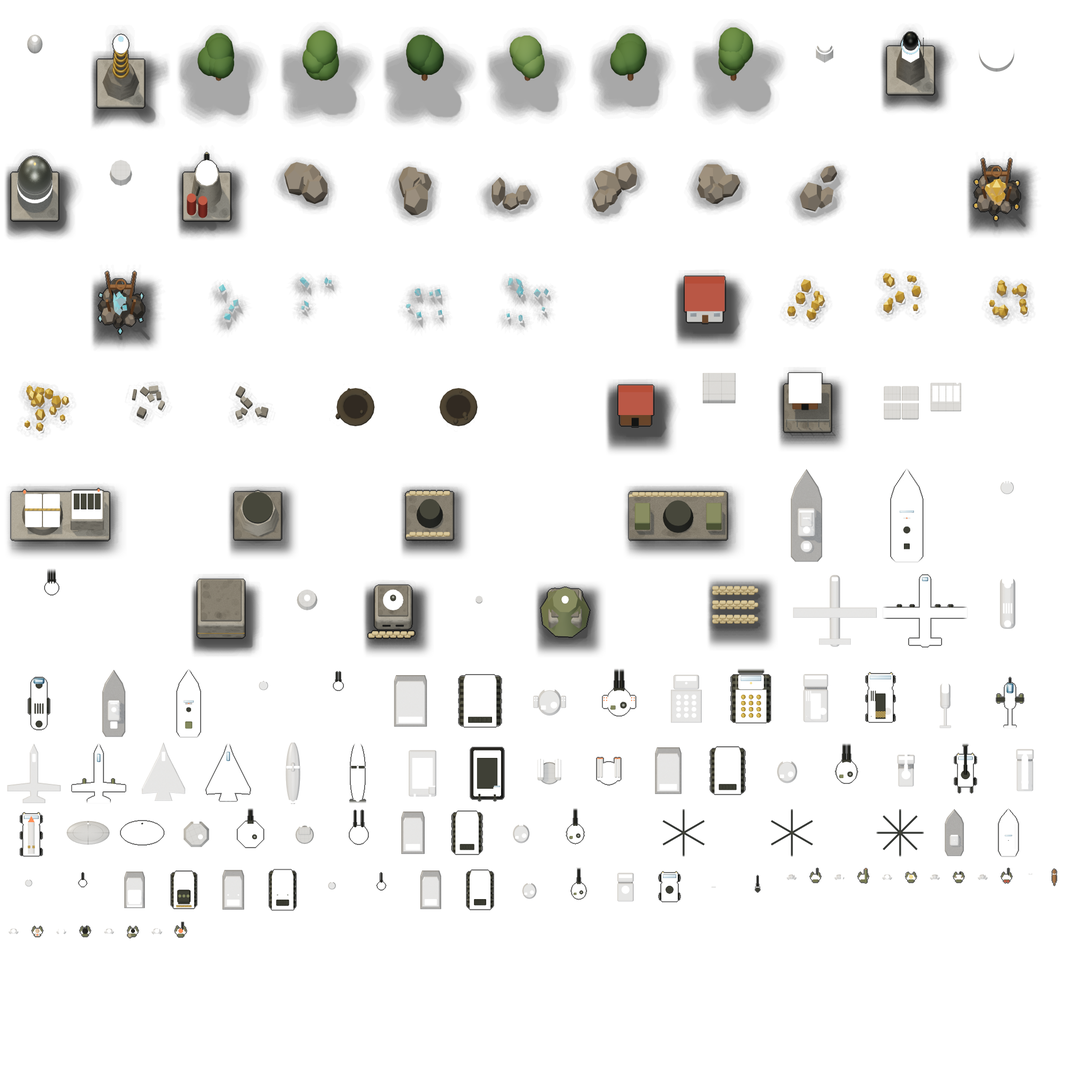
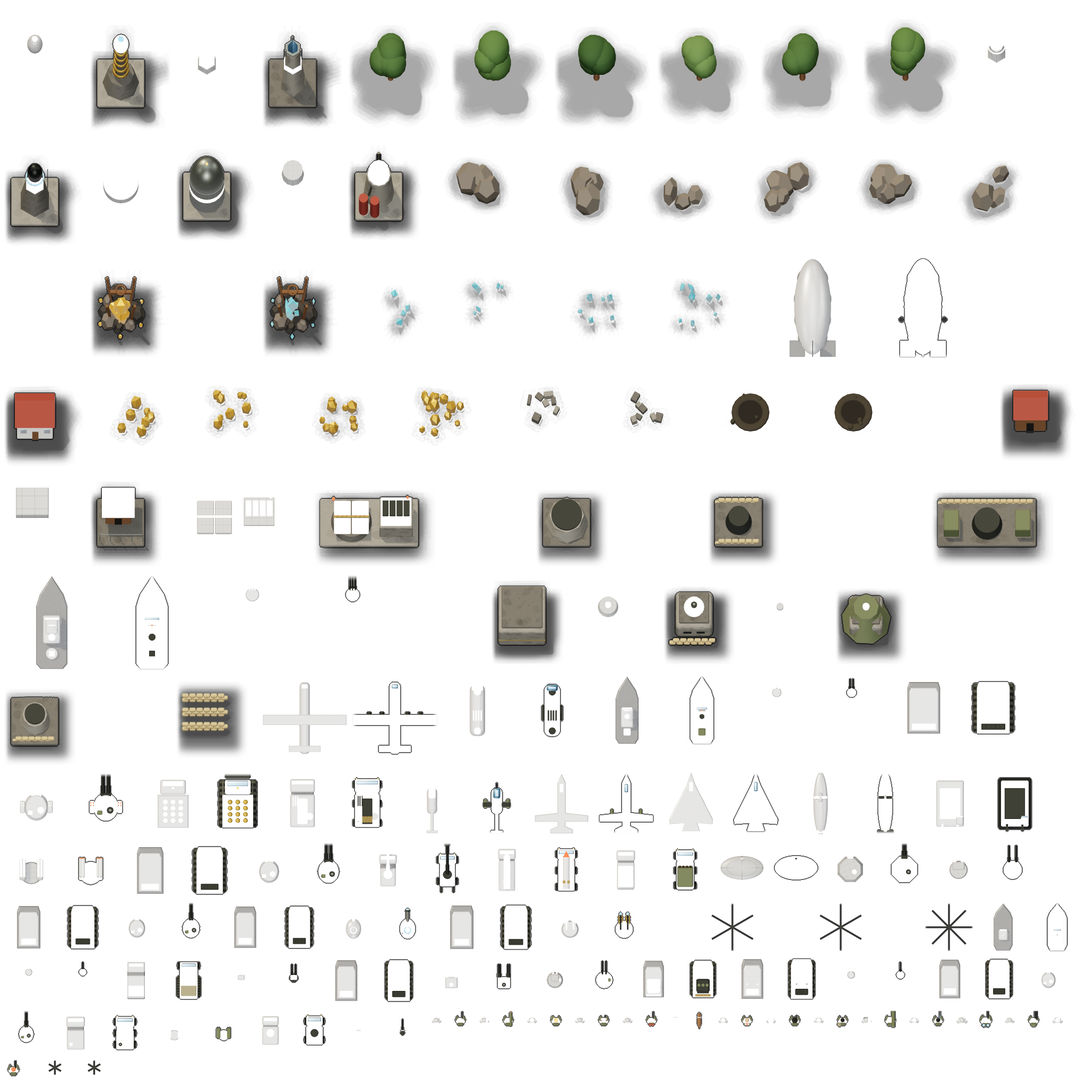
Command Front: 13 new units and defenses, credits screen
- Coalition: Guard Trooper, Marksman, Sentinel IFV, Laser Tank, Salvo Launcher, Beam Tower
- Union: Shock Trooper, Flak Trooper, Flak Halftrack, Rotary Tank, Arc Tank, Siege Airship, Sentry Gun
- New laser, flak and bomb sounds; lasers drawn as straight beams
- Credits screen from the main menu; two-column menu on short screens

Claude-Session: https://claude.ai/code/session_019HEXXrF3ovYnwZ7spp2Umw

diff --git a/command-front/src/data/units.js b/command-front/src/data/units.js
@@ -50,6 +50,10 @@ export const UNITS = Object.freeze({
   medic:         u({ id: 'medic', name: 'Medic', faction: 'coalition', line: INF, cost: 800, hp: 80, armor: 'none', loco: 'foot', speed: 1.0, sight: 3, weapons: ['heal'], requires: ['barracks'], tags: ['medic'] }),
   spy:           u({ id: 'spy', name: 'Spy', faction: 'coalition', line: INF, cost: 500, hp: 25, armor: 'none', loco: 'foot', speed: 1.0, sight: 5, requires: ['barracks', 'radar'], tags: ['spy', 'noAutoAcquire'] }),
   thief:         u({ id: 'thief', name: 'Thief', faction: 'coalition', line: INF, cost: 500, hp: 25, armor: 'none', loco: 'foot', speed: 1.2, sight: 4, requires: ['barracks', 'radar'], tags: ['thief', 'noAutoAcquire'] }),
+  guardTrooper:  u({ id: 'guardTrooper', name: 'Guard Trooper', faction: 'coalition', line: INF, cost: 250, hp: 70, armor: 'none', loco: 'foot', speed: 0.9, sight: 5, weapons: ['guardRocket'], requires: ['barracks'] }),
+  marksman:      u({ id: 'marksman', name: 'Marksman', faction: 'coalition', line: INF, cost: 600, hp: 60, armor: 'none', loco: 'foot', speed: 1.0, sight: 7, weapons: ['sniper'], requires: ['barracks', 'radar'] }),
+  shockTrooper:  u({ id: 'shockTrooper', name: 'Shock Trooper', faction: 'union', line: INF, cost: 500, hp: 130, armor: 'none', loco: 'foot', speed: 0.8, sight: 4, weapons: ['shockBolt'], requires: ['barracks', 'radar'] }),
+  flakTrooper:   u({ id: 'flakTrooper', name: 'Flak Trooper', faction: 'union', line: INF, cost: 300, hp: 50, armor: 'none', loco: 'foot', speed: 1.0, sight: 5, weapons: ['flakGun'], requires: ['barracks'], tags: ['antiAir'] }),
   commando:      u({ id: 'commando', name: 'Commando', faction: 'coalition', line: INF, cost: 1200, hp: 100, armor: 'none', loco: 'foot', speed: 1.3, sight: 6, weapons: ['sniper'], requires: ['barracks', 'tech'], limit: 1, tags: ['c4'] }),
 
   // Vehicles
@@ -61,6 +65,12 @@ export const UNITS = Object.freeze({
   lightTank:     u({ id: 'lightTank', name: 'Light Tank', faction: 'coalition', line: VEH, cost: 700, hp: 300, armor: 'heavy', loco: 'track', speed: 2.0, sight: 5, weapons: ['gun75'], turret: true, crusher: 'infantry', requires: ['factory'] }),
   mediumTank:    u({ id: 'mediumTank', name: 'Medium Tank', faction: 'coalition', line: VEH, cost: 800, hp: 400, armor: 'heavy', loco: 'track', speed: 1.7, sight: 5, weapons: ['gun90'], turret: true, crusher: 'infantry', requires: ['factory'] }),
   artillery:     u({ id: 'artillery', name: 'Artillery', faction: 'coalition', line: VEH, cost: 600, hp: 75, armor: 'light', loco: 'wheel', speed: 1.0, sight: 5, weapons: ['howitzer155'], requires: ['factory', 'radar'], tags: ['artillery'] }),
+  ifv:           u({ id: 'ifv', name: 'Sentinel IFV', faction: 'coalition', line: VEH, cost: 650, hp: 200, armor: 'light', loco: 'wheel', speed: 2.6, sight: 6, weapons: ['ifvRockets'], turret: true, requires: ['factory'], tags: ['antiAir'] }),
+  laserTank:     u({ id: 'laserTank', name: 'Laser Tank', faction: 'coalition', line: VEH, cost: 1200, hp: 250, armor: 'light', loco: 'track', speed: 1.6, sight: 6, weapons: ['laserBeam'], turret: true, crusher: 'infantry', requires: ['factory', 'radar'] }),
+  salvoLauncher: u({ id: 'salvoLauncher', name: 'Salvo Launcher', faction: 'coalition', line: VEH, cost: 1000, hp: 150, armor: 'light', loco: 'wheel', speed: 1.4, sight: 5, weapons: ['salvoRockets'], requires: ['factory', 'radar'], tags: ['artillery'] }),
+  flakTrack:     u({ id: 'flakTrack', name: 'Flak Halftrack', faction: 'union', line: VEH, cost: 500, hp: 180, armor: 'light', loco: 'wheel', speed: 2.4, sight: 6, weapons: ['flakCannon'], turret: true, requires: ['factory'], capacity: 5, tags: ['transport', 'antiAir'] }),
+  rotaryTank:    u({ id: 'rotaryTank', name: 'Rotary Tank', faction: 'union', line: VEH, cost: 650, hp: 300, armor: 'heavy', loco: 'track', speed: 2.0, sight: 6, weapons: ['gatling'], turret: true, crusher: 'infantry', requires: ['factory'], tags: ['antiAir'] }),
+  arcTank:       u({ id: 'arcTank', name: 'Arc Tank', faction: 'union', line: VEH, cost: 1100, hp: 350, armor: 'heavy', loco: 'track', speed: 1.7, sight: 5, weapons: ['arcCannon'], turret: true, crusher: 'infantry', requires: ['factory', 'radar'] }),
   heavyTank:     u({ id: 'heavyTank', name: 'Heavy Tank', faction: 'union', line: VEH, cost: 950, hp: 400, armor: 'heavy', loco: 'track', speed: 1.5, sight: 5, weapons: ['twin105'], turret: true, crusher: 'infantry', requires: ['factory'] }),
   titanTank:     u({ id: 'titanTank', name: 'Titan Tank', faction: 'union', line: VEH, cost: 1700, hp: 600, armor: 'heavy', loco: 'track', speed: 0.9, sight: 6, weapons: ['twin120', 'titanMissiles'], turret: true, crusher: 'sandbags', turnRate: TURN_RATE.heavy, requires: ['factory', 'tech'], slots: 2, tags: ['selfRepair'] }),
   ballisticLauncher: u({ id: 'ballisticLauncher', name: 'Ballistic Launcher', faction: 'union', line: VEH, cost: 700, hp: 150, armor: 'light', loco: 'wheel', speed: 1.4, sight: 5, weapons: ['ballistic'], requires: ['factory', 'radar'], tags: ['artillery'] }),
@@ -70,6 +80,8 @@ export const UNITS = Object.freeze({
   attackHeli:    u({ id: 'attackHeli', name: 'Attack Heli', faction: 'coalition', line: AIR, cost: 1200, hp: 225, armor: 'heavy', loco: 'air', speed: 3.5, sight: 6, weapons: ['heliRockets'], requires: ['helipad'], tags: ['heli', 'noRally'] }),
   attackPlane:   u({ id: 'attackPlane', name: 'Attack Plane', faction: 'union', line: AIR, cost: 800, hp: 60, armor: 'light', loco: 'air', speed: 6.0, sight: 2, weapons: ['planeChaingun'], requires: ['airfield'], tags: ['plane', 'noRally'] }),
   strikeJet:     u({ id: 'strikeJet', name: 'Strike Jet', faction: 'union', line: AIR, cost: 1200, hp: 70, armor: 'light', loco: 'air', speed: 7.0, sight: 2, weapons: ['jetMissiles'], requires: ['airfield'], tags: ['plane', 'antiAir', 'noRally'] }),
+
+  siegeAirship:  u({ id: 'siegeAirship', name: 'Siege Airship', faction: 'union', line: AIR, cost: 2000, hp: 1000, armor: 'heavy', loco: 'air', speed: 0.8, sight: 5, weapons: ['airshipBombs'], requires: ['airfield', 'tech'], pad: 'airfield', tags: ['heli', 'airship', 'noRally'] }),
 
   // Ships
   gunboat:       u({ id: 'gunboat', name: 'Gunboat', faction: 'coalition', line: NAV, cost: 500, hp: 200, armor: 'heavy', loco: 'float', speed: 2.6, sight: 6, weapons: ['deckGun', 'depthCharge'], turret: true, requires: ['navalyard'] }),

diff --git a/command-front/src/data/weapons.js b/command-front/src/data/weapons.js
@@ -41,6 +41,8 @@ export const WEAPONS = Object.freeze({
   heavyMg:      w('heavyMg', 'Heavy MG', { damage: 15, range: 4, cooldown: 0.8, warhead: 'SA', hits: GN }),
   pillboxMg:    w('pillboxMg', 'Pillbox MG', { damage: 25, range: 5, cooldown: 0.7, warhead: 'SA', hits: GN }),
   grenade:      w('grenade', 'Grenade', { damage: 50, range: 4, cooldown: 3.0, warhead: 'HE', splash: 1.0, projectile: 'arc', scatter: 0.75, hits: G }),
+  flakGun:      w('flakGun', 'Flak Gun', { damage: 20, burst: 2, range: 5, cooldown: 1.1, warhead: 'HE', splash: 0.3, hits: GAN }),
+  shockBolt:    w('shockBolt', 'Shock Bolt', { damage: 55, range: 3.5, cooldown: 2.5, warhead: 'Arc', projectile: 'beam', hits: GN }),
   rocket:       w('rocket', 'Rocket', { damage: 35, range: 5, cooldown: 3.3, warhead: 'AP', splash: 0.25, projectile: 'homing', hits: GAN }),
   flamethrower: w('flamethrower', 'Flamethrower', { damage: 70, range: 2, cooldown: 3.0, warhead: 'Fire', splash: 0.5, hits: G }),
   sniper:       w('sniper', 'Sniper', { damage: 100, range: 5.5, cooldown: 2.0, warhead: 'HollowPoint', hits: G, only: 'infantry' }),
@@ -48,6 +50,15 @@ export const WEAPONS = Object.freeze({
   heal:         w('heal', 'Heal', { damage: -25, range: 1.5, cooldown: 2.0, warhead: null, hits: G, only: 'friendlyInfantry' }),
   gun75:        w('gun75', '75mm Gun', { damage: 25, range: 4.75, cooldown: 2.7, warhead: 'AP', splash: 0.25, projectile: 'fastShell', hits: GN }),
   gun90:        w('gun90', '90mm Gun', { damage: 30, range: 4.75, cooldown: 3.3, warhead: 'AP', splash: 0.25, projectile: 'fastShell', hits: GN }),
+  guardRocket:  w('guardRocket', 'Anti-Tank Rocket', { damage: 50, range: 5, cooldown: 3.0, warhead: 'AP', splash: 0.25, projectile: 'homing', hits: GN }),
+  ifvRockets:   w('ifvRockets', 'IFV Rockets', { damage: 25, burst: 2, range: 5.5, cooldown: 2.5, warhead: 'AP', splash: 0.25, projectile: 'homing', hits: GAN }),
+  laserBeam:    w('laserBeam', 'Laser Beam', { damage: 80, range: 6, cooldown: 3.6, warhead: 'HE', splash: 0.75, projectile: 'beam', hits: GN }),
+  salvoRockets: w('salvoRockets', 'Salvo Rockets', { damage: 45, burst: 6, burstGap: 0.15, range: 8, minRange: 3, cooldown: 9, warhead: 'HE', splash: 0.75, projectile: 'missile', speed: 9, scatter: 1.2, hits: GN }),
+  gatling:      w('gatling', 'Rotary Cannon', { damage: 12, range: 4.5, cooldown: 0.3, warhead: 'SA', hits: GAN }),
+  flakCannon:   w('flakCannon', 'Flak Cannon', { damage: 25, burst: 2, range: 6, cooldown: 0.9, warhead: 'HE', splash: 0.3, hits: GAN }),
+  arcCannon:    w('arcCannon', 'Arc Cannon', { damage: 75, range: 4.5, cooldown: 3.0, warhead: 'Arc', projectile: 'beam', hits: GN }),
+  airshipBombs: w('airshipBombs', 'Airship Bombs', { damage: 220, range: 1.5, cooldown: 2.0, warhead: 'HE', splash: 1.5, projectile: 'dropped', hits: GN }),
+  sentryMg:     w('sentryMg', 'Sentry MG', { damage: 20, range: 5, cooldown: 0.5, warhead: 'SA', hits: GN }),
   twin105:      w('twin105', '105mm Twin', { damage: 30, burst: 2, range: 4.75, cooldown: 4.0, warhead: 'AP', splash: 0.25, projectile: 'fastShell', hits: GN }),
   twin120:      w('twin120', '120mm Twin', { damage: 40, burst: 2, range: 4.75, cooldown: 5.3, warhead: 'AP', splash: 0.25, projectile: 'fastShell', hits: GN }),
   titanMissiles: w('titanMissiles', 'Titan Missiles', { damage: 50, burst: 2, range: 5, cooldown: 4.0, warhead: 'AP', splash: 0.25, projectile: 'homing', hits: GAN }),
@@ -55,6 +66,7 @@ export const WEAPONS = Object.freeze({
   ballistic:    w('ballistic', 'Ballistic Missile', { damage: 600, range: 10, minRange: 3, cooldown: 20, warhead: 'HE', splash: 1.5, projectile: 'missile', scatter: 1.0, hits: GN }),
   turretCannon: w('turretCannon', 'Turret Cannon', { damage: 40, range: 6, cooldown: 3.0, warhead: 'AP', splash: 0.25, projectile: 'fastShell', hits: GN }),
   towerFlame:   w('towerFlame', 'Tower Flame', { damage: 125, range: 4, cooldown: 3.3, warhead: 'Fire', splash: 0.5, hits: G }),
+  towerBeam:    w('towerBeam', 'Tower Beam', { damage: 120, range: 7, cooldown: 4.5, chargeUp: 0.4, warhead: 'HE', splash: 0.5, projectile: 'beam', hits: GN, powered: true }),
   arcBolt:      w('arcBolt', 'Arc Bolt', { damage: 100, range: 6.5, cooldown: 5.0, chargeUp: 0.8, warhead: 'Arc', projectile: 'beam', hits: GN, powered: true }),
   flak:         w('flak', 'Flak', { damage: 25, burst: 2, range: 6, cooldown: 0.7, warhead: 'AP', hits: A, powered: true }),
   sam:          w('sam', 'SAM', { damage: 50, burst: 2, range: 7.5, cooldown: 3.0, warhead: 'AP', projectile: 'homing', hits: A, powered: true }),

diff --git a/command-front/src/ai/buildOrders.js b/command-front/src/ai/buildOrders.js
@@ -19,11 +19,11 @@ export const BUILD_ORDER = Object.freeze({
     { type: 'refinery', minDifficulty: 'normal' }, { type: 'radarDome' }, { type: 'pillbox' }, { type: 'gunTurret' },
     { type: 'advPowerPlant' }, { type: 'serviceDepot' }, { type: 'techCenter' }, { type: 'helipad' },
     { type: 'navalYard', naval: true }, { type: 'advPowerPlant' }, { type: 'phaseShifter', minDifficulty: 'normal' },
-    { type: 'refinery', minDifficulty: 'hard' }, { type: 'gunTurret' }, { type: 'aaGun' },
+    { type: 'refinery', minDifficulty: 'hard' }, { type: 'gunTurret' }, { type: 'aaGun' }, { type: 'beamTower', minDifficulty: 'normal' },
   ],
   union: [
     { type: 'powerPlant' }, { type: 'barracks' }, { type: 'refinery' }, { type: 'powerPlant' }, { type: 'warFactory' },
-    { type: 'refinery', minDifficulty: 'normal' }, { type: 'radarDome' }, { type: 'flameTower' }, { type: 'flameTower' },
+    { type: 'refinery', minDifficulty: 'normal' }, { type: 'radarDome' }, { type: 'sentryGun' }, { type: 'flameTower' },
     { type: 'advPowerPlant' }, { type: 'serviceDepot' }, { type: 'techCenter' }, { type: 'kennel' }, { type: 'airfield' },
     { type: 'subPen', naval: true }, { type: 'advPowerPlant' }, { type: 'missileSilo', minDifficulty: 'normal' },
     { type: 'aegisProjector', minDifficulty: 'normal' }, { type: 'refinery', minDifficulty: 'hard' }, { type: 'samSite' }, { type: 'arcTower' },
@@ -34,13 +34,13 @@ export const BUILD_ORDER = Object.freeze({
 export const WAVES = Object.freeze({
   coalition: {
     easy: { lightTank: 2, rifleman: 4 },
-    normal: { mediumTank: 4, lightTank: 2, artillery: 2, rifleman: 6 },
-    hard: { mediumTank: 5, lightTank: 2, artillery: 3, rifleman: 6, rocketTrooper: 2, attackHeli: 1 },
+    normal: { mediumTank: 3, ifv: 2, lightTank: 1, artillery: 1, rifleman: 5, guardTrooper: 2 },
+    hard: { mediumTank: 4, laserTank: 2, ifv: 2, salvoLauncher: 2, rifleman: 5, guardTrooper: 2, marksman: 1, attackHeli: 1 },
   },
   union: {
     easy: { heavyTank: 2, rifleman: 4 },
-    normal: { heavyTank: 4, ballisticLauncher: 2, rifleman: 6, rocketTrooper: 2 },
-    hard: { heavyTank: 5, titanTank: 1, ballisticLauncher: 2, rifleman: 6, rocketTrooper: 3, flameTrooper: 2 },
+    normal: { heavyTank: 3, rotaryTank: 2, ballisticLauncher: 1, rifleman: 5, flakTrooper: 2 },
+    hard: { heavyTank: 3, arcTank: 2, titanTank: 1, rotaryTank: 2, ballisticLauncher: 1, shockTrooper: 2, rifleman: 4, flameTrooper: 2, siegeAirship: 1 },
   },
 });
 

diff --git a/command-front/src/ui/screens.js b/command-front/src/ui/screens.js
@@ -6,6 +6,7 @@
  */
 import { html, render } from 'htm/preact';
 import { FACTIONS, PLAYER_COLORS } from '../data/factions.js';
+import { CREDITS } from '../data/credits.js';
 import { GAME_SPEEDS, SETUP_DEFAULTS, SIM } from '../data/rules.js';
 import { COLORS, ORE_GROWTH_OPTIONS, maxPlayersOf } from '../game/matchSetup.js';
 import { GENERATOR } from '../map/generator.js';
@@ -42,7 +43,7 @@ const Toggle = ({ checked, onChange, label }) => html`<input type="checkbox" cla
   onChange=${(/** @type {any} */ e) => onChange(e.target.checked)} />`;
 
 /**
- * @param {{ hasAutosave: boolean, homeScreenHint?: boolean, act: { skirmish: () => void, twoPhones: () => void, resume: () => void, load: () => void, settings: () => void } }} p
+ * @param {{ hasAutosave: boolean, homeScreenHint?: boolean, act: { skirmish: () => void, twoPhones: () => void, resume: () => void, load: () => void, settings: () => void, credits: () => void } }} p
  *   homeScreenHint: iPhone Safari, where only Add to Home Screen removes the browser bars
  */
 export function MainMenu({ hasAutosave, homeScreenHint = false, act }) {
@@ -55,8 +56,26 @@ export function MainMenu({ hasAutosave, homeScreenHint = false, act }) {
       <button class="btn" onClick=${act.load}>Load game</button>
       <button class="btn" onClick=${act.twoPhones}>Two phones · WiFi</button>
       <button class="btn" onClick=${act.settings}>Settings</button>
+      <button class="btn" onClick=${act.credits}>Credits</button>
     </div>
     ${homeScreenHint ? html`<p class="menu-tip">For full screen on iPhone: tap Share <span aria-hidden="true">⎙</span> then <b>Add to Home Screen</b>, and open the game from there.</p>` : null}
+  </div>`;
+}
+
+/**
+ * Credits (main menu): who made the game and what it is built with, ending with thanks.
+ * @param {{ onBack: () => void }} p
+ */
+export function CreditsScreen({ onBack }) {
+  return html`<div class="screen credits-screen">
+    <header class="screen-head"><button class="btn" onClick=${onBack}>‹ Back</button><h2>Credits</h2><span></span></header>
+    <div class="credits-roll">
+      ${CREDITS.map((sec) => html`<section key=${sec.title}>
+        <h3>${sec.title}</h3>
+        ${sec.lines.map((l) => html`<p><b>${l.name}</b>${l.note ? html`<span class="muted">${l.note}</span>` : null}</p>`)}
+      </section>`)}
+      <p class="credits-end">Thanks for playing</p>
+    </div>
   </div>`;
 }
 

diff --git a/command-front/src/data/structures.js b/command-front/src/data/structures.js
@@ -64,9 +64,11 @@ export const STRUCTURES = Object.freeze({
   camoPillbox:      s({ id: 'camoPillbox', name: 'Camo Pillbox', role: 'defense', faction: 'coalition', line: DEF, cost: 600, power: -15, hp: 400, w: 1, h: 1, requires: ['radar'], weapon: 'pillboxMg', tags: ['camo'] }),
   gunTurret:        s({ id: 'gunTurret', name: 'Gun Turret', role: 'defense', faction: 'coalition', line: DEF, cost: 600, power: -40, hp: 400, w: 1, h: 1, requires: ['factory'], weapon: 'turretCannon', tags: ['turret'] }),
   aaGun:            s({ id: 'aaGun', name: 'AA Gun', role: 'defense', faction: 'coalition', line: DEF, cost: 600, power: -50, hp: 400, w: 1, h: 1, requires: ['radar'], weapon: 'flak', tags: ['powered'] }),
+  beamTower:        s({ id: 'beamTower', name: 'Beam Tower', role: 'defense', faction: 'coalition', line: DEF, cost: 1500, power: -75, hp: 500, w: 1, h: 1, requires: ['factory'], weapon: 'towerBeam', tags: ['powered'] }),
   shroudGenerator:  s({ id: 'shroudGenerator', name: 'Shroud Generator', role: 'defense', faction: 'coalition', line: DEF, cost: 500, power: -60, hp: 500, w: 1, h: 1, requires: ['tech'], tags: ['powered', 'shroudGen'] }),
   flameTower:       s({ id: 'flameTower', name: 'Flame Tower', role: 'defense', faction: 'union', line: DEF, cost: 600, power: -15, hp: 400, w: 1, h: 1, requires: ['barracks'], weapon: 'towerFlame' }),
   arcTower:         s({ id: 'arcTower', name: 'Arc Tower', role: 'defense', faction: 'union', line: DEF, cost: 1500, power: -150, hp: 400, w: 1, h: 1, requires: ['factory'], weapon: 'arcBolt', tags: ['powered'] }),
+  sentryGun:        s({ id: 'sentryGun', name: 'Sentry Gun', role: 'defense', faction: 'union', line: DEF, cost: 500, power: -15, hp: 400, w: 1, h: 1, requires: ['barracks'], weapon: 'sentryMg', tags: ['turret'] }),
   samSite:          s({ id: 'samSite', name: 'SAM Site', role: 'defense', faction: 'union', line: DEF, cost: 750, power: -20, hp: 400, w: 2, h: 1, requires: ['radar'], weapon: 'sam', tags: ['powered'] }),
 });
 

diff --git a/command-front/src/data/credits.js b/command-front/src/data/credits.js
@@ -1,0 +1,47 @@
+// @ts-check
+/**
+ * The Credits screen (main menu → Credits): who made the game and the open
+ * software and models it is built with. Licences match vendor/VERSIONS.md.
+ */
+
+/** @typedef {{ title: string, lines: { name: string, note?: string }[] }} CreditSection */
+
+/** @type {readonly CreditSection[]} */
+export const CREDITS = Object.freeze([
+  {
+    title: 'Created by',
+    lines: [{ name: 'Ghiath Dar', note: 'Game idea, design and direction' }],
+  },
+  {
+    title: 'Built with',
+    lines: [{ name: 'Claude by Anthropic', note: 'Programming, 3D models, sound effects and voice direction' }],
+  },
+  {
+    title: 'Voices',
+    lines: [
+      { name: 'Kokoro text-to-speech', note: 'hexgrad · Apache-2.0' },
+      { name: 'kokoro-onnx', note: 'thewh1teagle · MIT' },
+    ],
+  },
+  {
+    title: 'Open-source software',
+    lines: [
+      { name: 'PixiJS', note: 'MIT' },
+      { name: 'Preact and htm', note: 'MIT · Apache-2.0' },
+      { name: 'Howler.js', note: 'MIT' },
+      { name: 'ZzFX', note: 'Frank Force · MIT' },
+      { name: 'EasyStar.js', note: 'MIT' },
+      { name: 'seedrandom', note: 'David Bau · MIT' },
+      { name: 'simplex-noise', note: 'Jonas Wagner · MIT' },
+      { name: 'idb-keyval', note: 'Jake Archibald · Apache-2.0' },
+      { name: 'fflate', note: 'Arjun Barrett · MIT' },
+      { name: 'qrcode-generator', note: 'Kazuhiko Arase · MIT' },
+      { name: 'jsQR', note: 'Cosmo Wolfe · Apache-2.0' },
+      { name: 'three.js', note: 'used to render the art · MIT' },
+    ],
+  },
+  {
+    title: 'Inspired by',
+    lines: [{ name: 'The classic real-time strategy games of the 1990s and 2000s', note: 'Command Front is an original game, not affiliated with any of them' }],
+  },
+]);

diff --git a/command-front/sw.js b/command-front/sw.js
@@ -1,7 +1,7 @@
 /* Command Front service worker: cache-first, versioned. Hand-maintained list —
    add every file the game loads; ?debug warns at startup about any that are missing.
    Bump CACHE whenever a listed file changes. */
-const CACHE = 'command-front-v21';
+const CACHE = 'command-front-v22';
 
 const PRECACHE = [
   './',
@@ -19,6 +19,8 @@ const PRECACHE = [
   './assets/sound/s/bigBoom-1.mp3',
   './assets/sound/s/bite-0.mp3',
   './assets/sound/s/bite-1.mp3',
+  './assets/sound/s/bomb-0.mp3',
+  './assets/sound/s/bomb-1.mp3',
   './assets/sound/s/boom-0.mp3',
   './assets/sound/s/boom-1.mp3',
   './assets/sound/s/boom-2.mp3',
@@ -29,6 +31,8 @@ const PRECACHE = [
   './assets/sound/s/die-0.mp3',
   './assets/sound/s/die-1.mp3',
   './assets/sound/s/die-2.mp3',
+  './assets/sound/s/flak-0.mp3',
+  './assets/sound/s/flak-1.mp3',
   './assets/sound/s/flame-0.mp3',
   './assets/sound/s/flame-1.mp3',
   './assets/sound/s/growl-0.mp3',
@@ -36,6 +40,8 @@ const PRECACHE = [
   './assets/sound/s/heal-0.mp3',
   './assets/sound/s/heavy-0.mp3',
   './assets/sound/s/heavy-1.mp3',
+  './assets/sound/s/laser-0.mp3',
+  './assets/sound/s/laser-1.mp3',
   './assets/sound/s/mg-0.mp3',
   './assets/sound/s/mg-1.mp3',
   './assets/sound/s/mg-2.mp3',
@@ -282,6 +288,7 @@ const PRECACHE = [
   './src/core/events.js',
   './src/core/fixed.js',
   './src/core/loop.js',
+  './src/data/credits.js',
   './src/data/factions.js',
   './src/data/rules.js',
   './src/data/sounds.js',

diff --git a/command-front/styles.css b/command-front/styles.css
@@ -325,6 +325,10 @@ html.too-small .card.too-small { display: grid; }
 }
 
 @media (max-height: 420px) {
+  /* A phone held sideways: the main menu's buttons in two columns, so all of them fit. */
+  .screen.menu .menu-buttons { display: grid; grid-template-columns: 1fr 1fr; min-width: min(460px, 86vw); gap: 8px; }
+  .screen.menu .menu-buttons .primary { grid-column: 1 / -1; }
+  .screen.menu .menu-mark { font-size: 28px; }
   .groups { gap: 4px; }
   .group { width: 38px; height: 36px; }
 }
@@ -388,3 +392,11 @@ html.too-small .card.too-small { display: grid; }
 /* A file input inside its label: invisible but still clickable on every browser (iOS ignores display:none ones). */
 .file-pick { position: absolute; width: 1px; height: 1px; opacity: 0; overflow: hidden; pointer-events: none; }
 .custom-sounds label.btn { display: inline-flex; align-items: center; justify-content: center; position: relative; }
+
+/* Credits */
+.credits-roll { max-width: 560px; margin: 0 auto; padding: 8px 16px 40px; text-align: center; }
+.credits-roll section { margin: 0 0 18px; }
+.credits-roll h3 { margin: 0 0 8px; font-size: 12px; letter-spacing: .18em; text-transform: uppercase; color: var(--accent); }
+.credits-roll p { margin: 0 0 8px; display: flex; flex-direction: column; gap: 2px; }
+.credits-roll p .muted { font-size: 13px; margin: 0; }
+.credits-end { margin-top: 26px !important; font-size: 18px; letter-spacing: .12em; text-transform: uppercase; color: var(--accent); }

diff --git a/command-front/src/game/app.js b/command-front/src/game/app.js
@@ -13,7 +13,7 @@ import { saveGame, loadGame, listSaves, deleteGame, saveSettings, loadSettings }
 import { createAudio } from '../lib/audio.js';
 import { createCustomSounds } from './customSounds.js';
 import { setHaptics } from '../lib/haptics.js';
-import { showScreen, MainMenu, SetupScreen, SlotsScreen, SettingsScreen, EndScreen } from '../ui/screens.js';
+import { showScreen, MainMenu, SetupScreen, SlotsScreen, SettingsScreen, EndScreen, CreditsScreen } from '../ui/screens.js';
 import { html } from 'htm/preact';
 import { VICTORY } from '../data/rules.js';
 import { FACTIONS } from '../data/factions.js';
@@ -70,7 +70,7 @@ export async function startApp({ hudEl, worldEl, screensEl, debug }) {
   const menu = async () => {
     const saves = await listSaves().catch(() => []);
     showScreen(screensEl, html`<${MainMenu} hasAutosave=${saves.some((s) => s.slot === 'auto')} homeScreenHint=${needsHomeScreen()}
-      act=${{ skirmish: setup, twoPhones: () => twoPhones.open(), resume: () => loadSlot('auto'), load: () => slots('load', menu), settings: () => settingsScreen(menu) }} />`);
+      act=${{ skirmish: setup, twoPhones: () => twoPhones.open(), resume: () => loadSlot('auto'), load: () => slots('load', menu), settings: () => settingsScreen(menu), credits: () => showScreen(screensEl, html`<${CreditsScreen} onBack=${menu} />`) }} />`);
   };
 
   const setup = () => {

diff --git a/command-front/src/sim/systems/production.js b/command-front/src/sim/systems/production.js
@@ -19,6 +19,7 @@ import { rolesOf, isActive, structureDef, structureReady, removeStructure, place
 import { spawnUnit, canEnter, vacate } from '../entities/units.js';
 import { checkPlacement, checkDeploy } from '../placement.js';
 import { setMove } from './movement.js';
+import { padRoleOf } from '../air.js';
 import { DIR8 } from '../../core/fixed.js';
 
 /** @typedef {import('../world.js').World} World */
@@ -59,7 +60,7 @@ export const costOf = (type) => (type === 'constructionYard' ? MCV_COST : itemDe
 
 /** A free pad of the right kind for an aircraft type, or null. @param {World} w @param {number} pid @param {string} type */
 function freePad(w, pid, type) {
-  const role = UNITS[type].tags.includes('heli') ? 'helipad' : 'airfield';
+  const role = padRoleOf(type);
   const reserved = new Set();
   for (const item of lineFor(w.players[pid], 'aircraft').queue) if (item.pad) reserved.add(item.pad);
   for (const e of w.entities.all()) {

diff --git a/command-front/src/sim/air.js b/command-front/src/sim/air.js
@@ -33,7 +33,9 @@ const tagsOf = (/** @type {any} */ u) => UNITS[u.type].tags;
 export const isAircraft = (/** @type {any} */ u) => u.kind === 'unit' && UNITS[u.type].loco === 'air' && !tagsOf(u).includes('support');
 export const isHeli = (/** @type {any} */ u) => tagsOf(u).includes('heli');
 export const isPlane = (/** @type {any} */ u) => tagsOf(u).includes('plane');
-const padRole = (/** @type {any} */ u) => (isHeli(u) ? 'helipad' : 'airfield');
+/** The pad an aircraft type is built on and rearms at. @param {string} type */
+export const padRoleOf = (type) => UNITS[type].pad ?? (UNITS[type].tags.includes('heli') ? 'helipad' : 'airfield');
+const padRole = (/** @type {any} */ u) => padRoleOf(u.type);
 
 /** Cell an aircraft parks on. @param {any} pad */
 export const padCell = (pad) => ({ x: pad.cx + (pad.w >> 1), y: pad.cy + (pad.h >> 1) });

diff --git a/command-front/src/render/combatFx.js b/command-front/src/render/combatFx.js
@@ -96,7 +96,9 @@ export function createCombatFx() {
           lines.push({ x0: mx, y0: my, x1, y1, t0: now, ms: look === 'snipe' ? 140 : 70, color: look === 'snipe' ? 0xf4f4ea : 0xffe08a, width: look === 'snipe' ? 1 : 0.8, jagged: false });
           add({ x: mx, y: my, max: 60, color: 0xfff1c0, size: 1.6 });
         } else if (look === 'beam') {
-          lines.push({ x0, y0, x1, y1, t0: now, ms: 180, color: 0x9fd8ff, width: 2, jagged: true });
+          // Arc weapons crackle; lasers are a straight, hotter beam.
+          const arc = WEAPONS[d.weapon].warhead === 'Arc';
+          lines.push({ x0, y0, x1, y1, t0: now, ms: arc ? 180 : 240, color: arc ? 0x9fd8ff : 0xfff4d8, width: arc ? 2 : 2.6, jagged: arc });
         } else if (look === 'flame') {
           for (let k = 0; k < 12; k++) {
             const f = Math.random();
